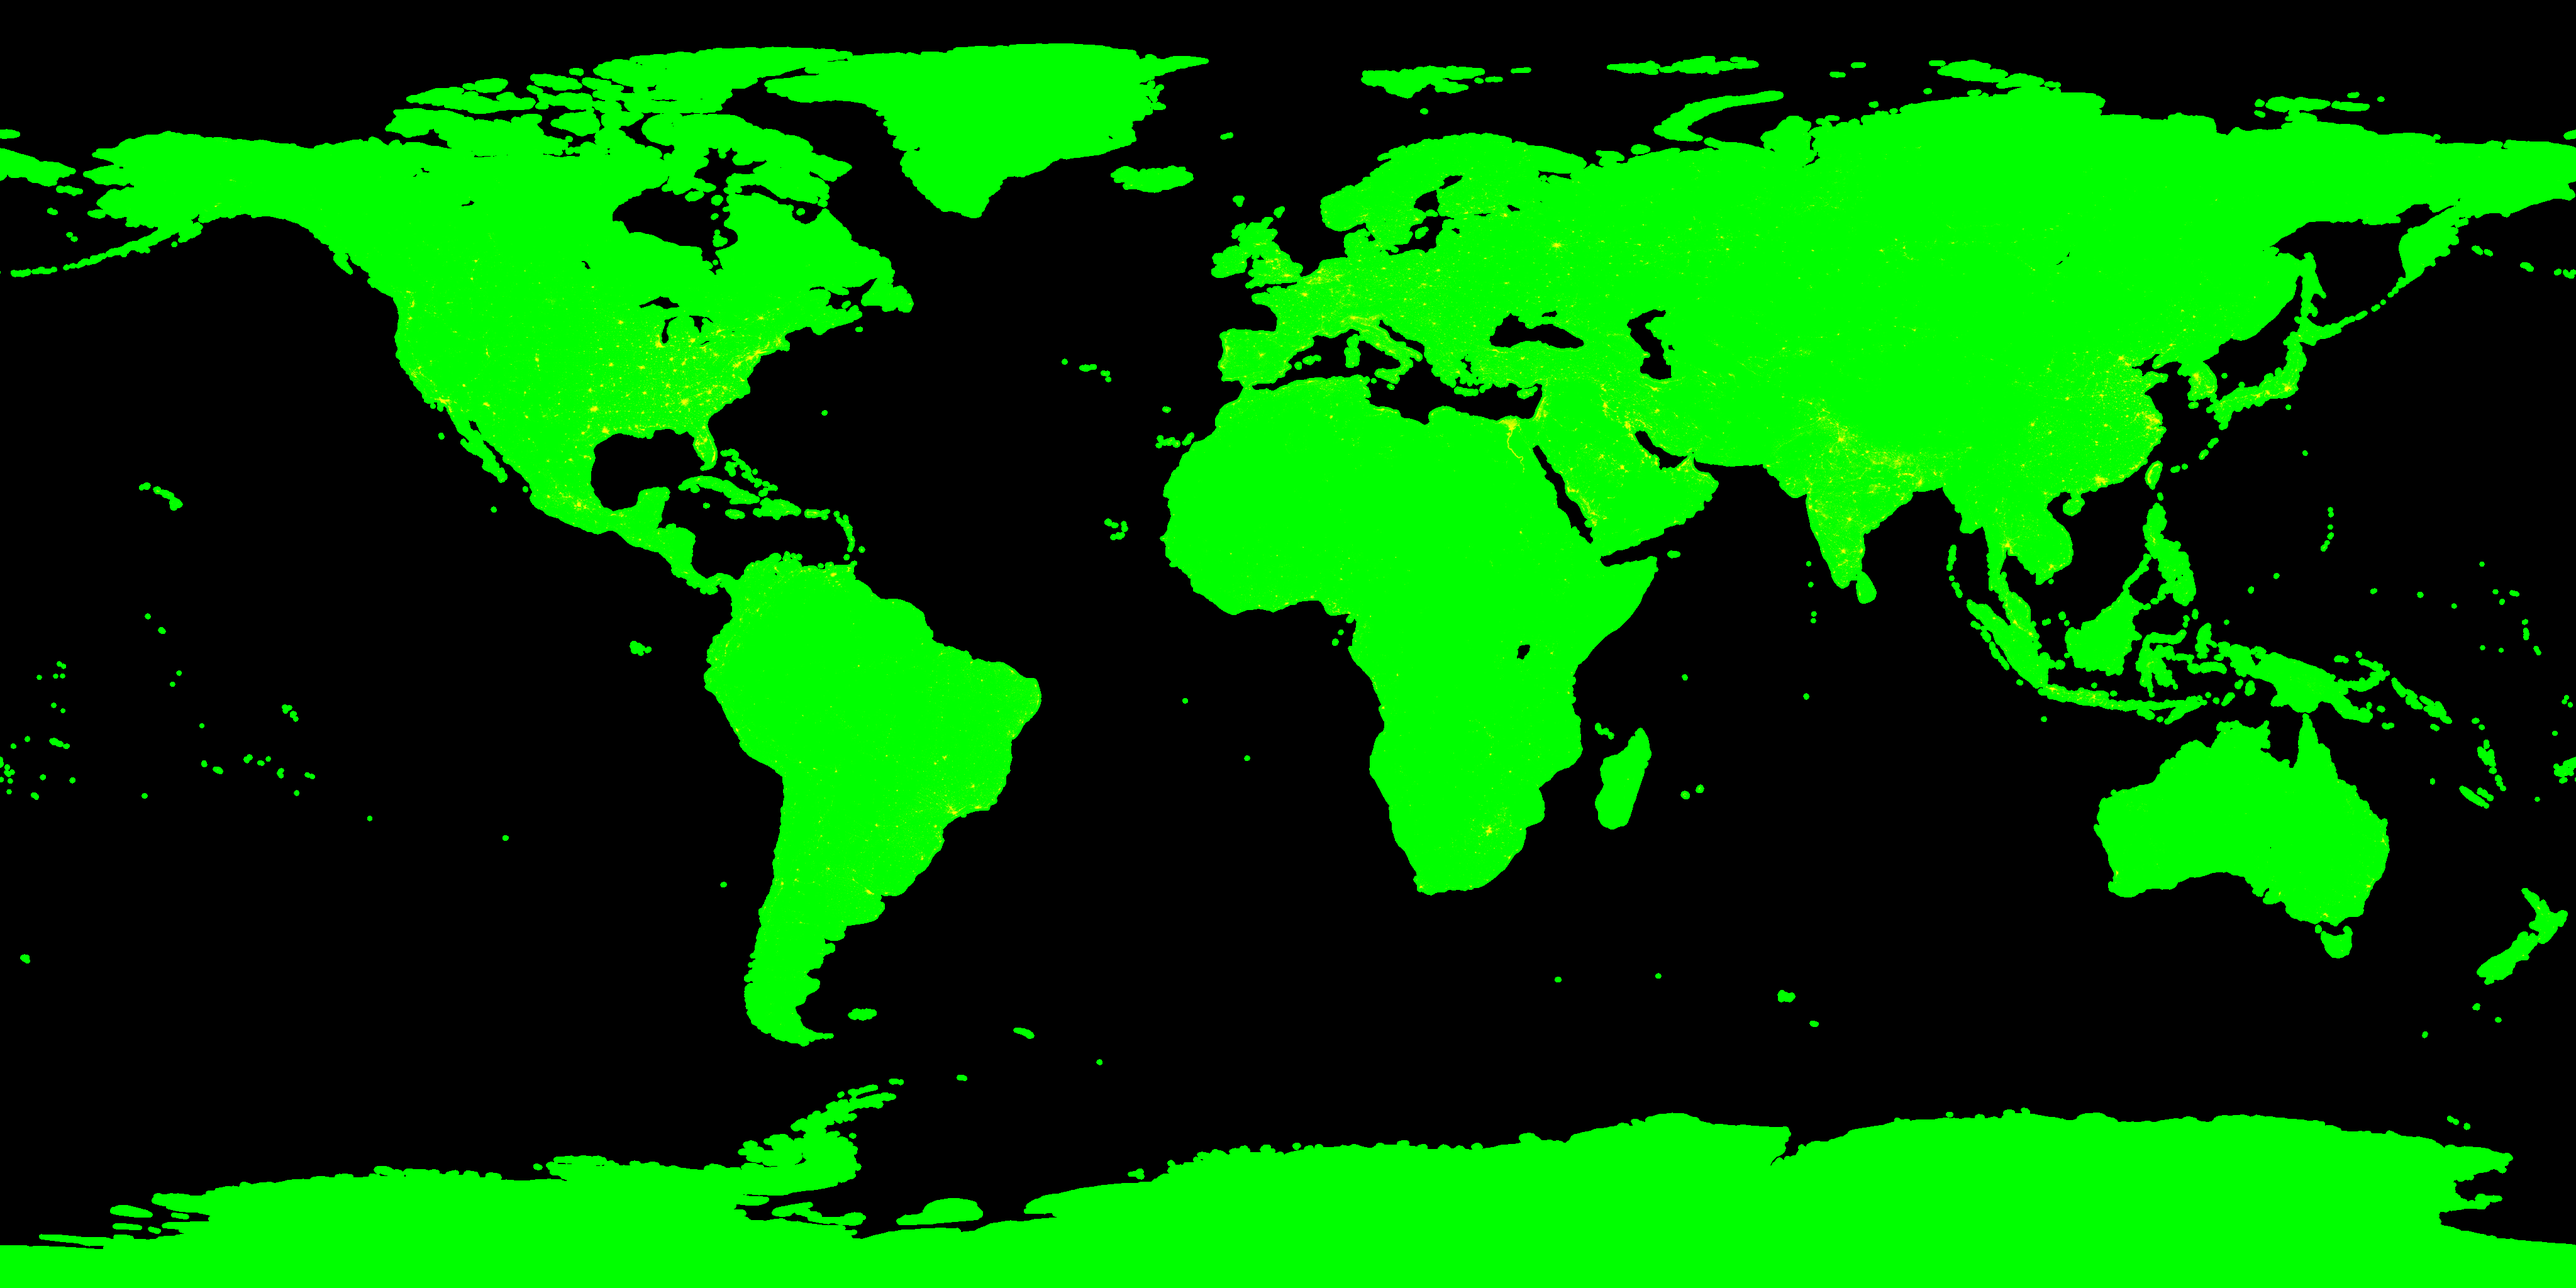
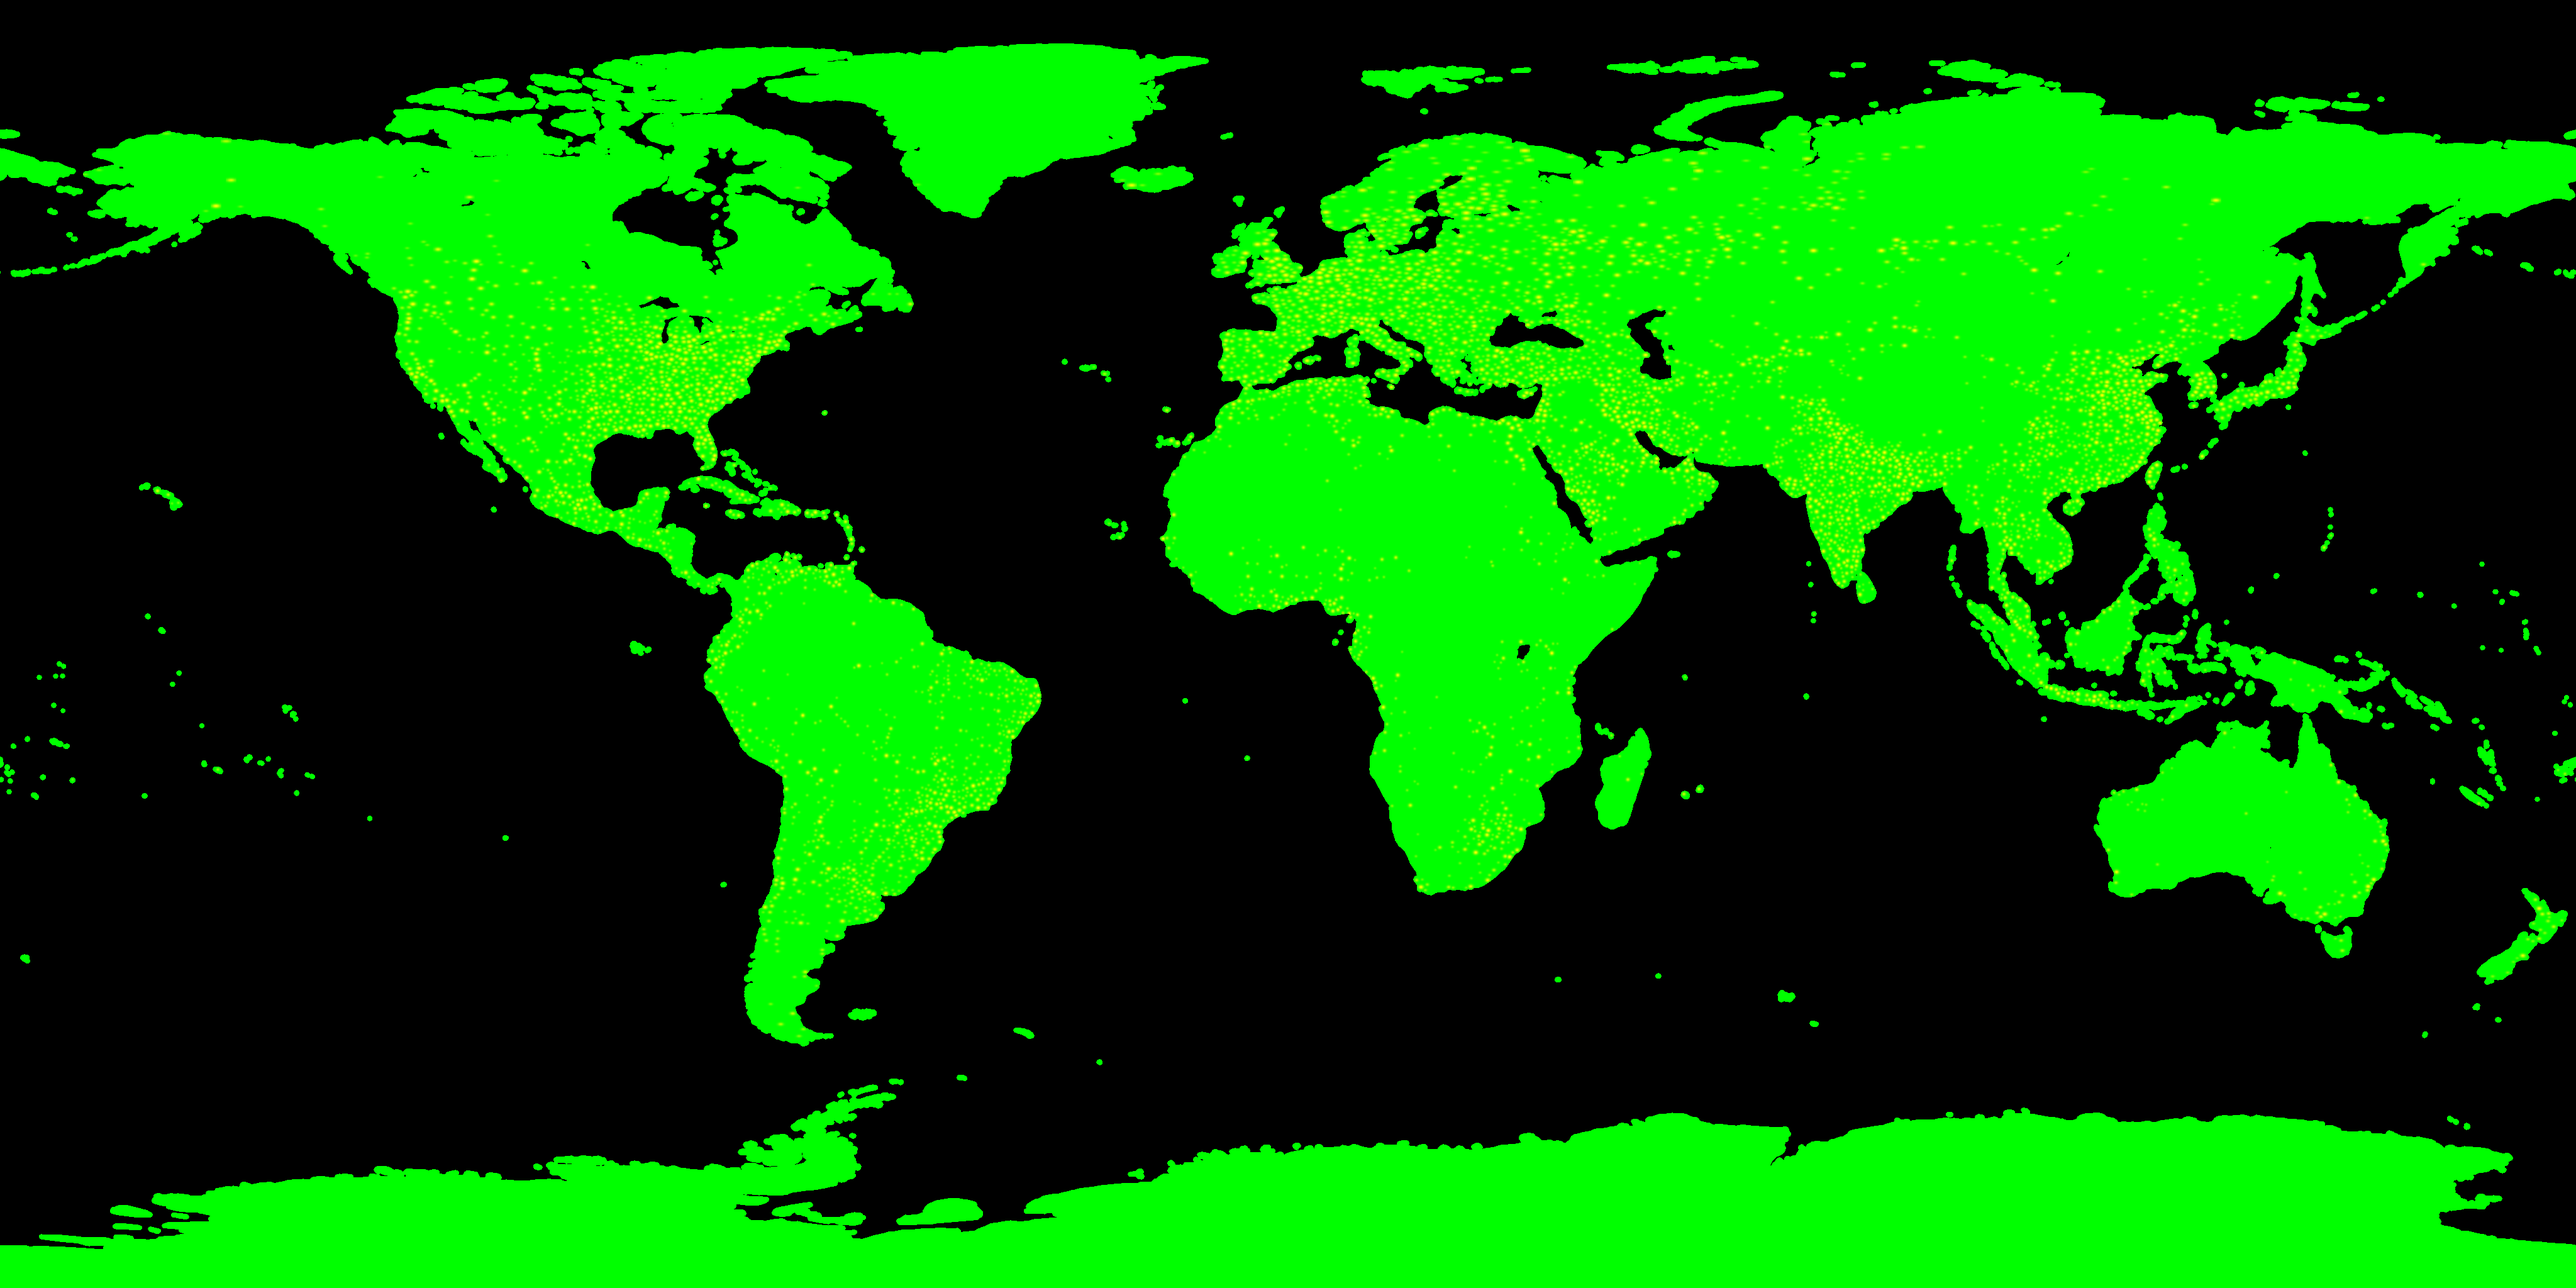
Mold round 3, in progress [skip ci]: food as flakes at the lights' peaks, fewer agents, a calmer body, taps' rings, settling north up, a darker night (painting-company row 203)
Claude-Session: https://claude.ai/code/session_01BAtsk9PFRL729s46UnNz9a

diff --git a/toys/mold/src/lib.rs b/toys/mold/src/lib.rs
@@ -18,16 +18,17 @@ const W: u32 = 4096;
 const H: u32 = 2048;
 const GLOW: u32 = 4;
 /// The agents: enough for a fine network over every continent.
-const AGENTS: u32 = 1 << 17;
+const AGENTS: u32 = 1 << 16;
 /// The lit places an agent may bud again at (drawn by brightness).
 const SPAWNS: usize = 1 << 16;
 const MAX_FEEDS: usize = 32;
+const MAX_RIPPLES: usize = 8;
 /// A flake's box's half height in cells (sim.wgsl's REACH).
 const FEED_REACH: u32 = 96;
 /// Steps a second (the mold's speed: a step is about a cell).
 const RATE: f64 = 60.0;
 /// How much of the body's light a cell keeps a step (its easing in time).
-const BODY_EASE: f32 = 0.93;
+const BODY_EASE: f32 = 0.97;
 
 #[repr(C)]
 #[derive(Clone, Copy, bytemuck::Pod, bytemuck::Zeroable)]
@@ -46,6 +47,8 @@ struct Params {
 struct Look {
     a: [f32; 4],
     ages: [[f32; 4]; MAX_FEEDS],
+    /// lon, lat (radians), seconds since, 1 on land (0 the sea)
+    ripples: [[f32; 4]; MAX_RIPPLES],
 }
 
 #[derive(Clone, Copy, serde::Serialize, serde::Deserialize)]
@@ -53,6 +56,14 @@ struct Feed {
     lon: f64,
     lat: f64,
     at: f64,
+}
+
+#[derive(Clone, Copy)]
+struct Ripple {
+    lon: f64,
+    lat: f64,
+    at: f64,
+    land: bool,
 }
 
 struct Touch {
@@ -65,6 +76,7 @@ struct Touch {
 
 pub struct Mold {
     globe: Globe,
+    night: Night,
     params: wgpu::Buffer,
     look: wgpu::Buffer,
     agents_pipe: wgpu::ComputePipeline,
@@ -85,6 +97,12 @@ pub struct Mold {
     age: f64,
     feeds: Vec<Feed>,
     touch: Option<Touch>,
+    /// The taps' rings (on land and sea).
+    ripples: Vec<Ripple>,
+    /// When a finger last touched (the shell's seconds).
+    touched: f64,
+    /// Where the mold may go (ground.png's G), for a tap.
+    land: Vec<bool>,
     reduce_motion: bool,
 }
 
@@ -322,7 +340,9 @@ impl Toy for Mold {
             cache: None,
         });
 
+        let night = Night::new(gpu, &globe);
         Ok(Mold {
+            night,
             globe,
             params,
             look,
@@ -343,6 +363,9 @@ impl Toy for Mold {
             age: 0.0,
             feeds: Vec::new(),
             touch: None,
+            ripples: Vec::new(),
+            touched: f64::NEG_INFINITY,
+            land: ground.iter().map(|&g| g >= 0.0).collect(),
             reduce_motion: ctx.reduce_motion,
         })
     }
@@ -353,6 +376,7 @@ impl Toy for Mold {
 
     fn pointer(&mut self, ctx: &mut Ctx, e: PointerEvent) {
         self.globe.pointer(e);
+        self.touched = self.seconds;
         match e.phase {
             Phase::Down => {
                 // a second finger makes it a pinch, never a feed
@@ -369,7 +393,14 @@ impl Toy for Mold {
                 if let Some(t) = self.touch.take() {
                     if t.id == e.id && !t.moved && e.t - t.t < 0.5 {
                         if let Some(at) = self.globe.unproject(e.x, e.y) {
-                            self.feed(at);
+                            // on land a flake (the mold may reach it); on the sea only the ring
+                            if self.on_land(at) {
+                                self.feed(at);
+                            }
+                            self.ripples.push(Ripple { lon: at.lon, lat: at.lat, at: self.seconds, land: self.on_land(at) });
+                            if self.ripples.len() > MAX_RIPPLES {
+                                self.ripples.remove(0);
+                            }
                             ctx.haptic();
                         }
                     }
@@ -382,6 +413,15 @@ impl Toy for Mold {
     fn update(&mut self, ctx: &mut Ctx, t: f64, dt: f64) {
         self.globe.update(&ctx.gpu, ctx.assets.as_ref(), t, dt);
         self.seconds = t;
+        // left alone a while (a fling spent), the globe settles north up over the mold's latitudes,
+        // never resting on the ice or the empty southern ocean
+        if self.globe.hand.fingers() == 0 && t - self.touched > 2.5 {
+            let k = 1.0 - 0.5f64.powf(dt / 1.2);
+            let cam = &mut self.globe.camera;
+            let lat = cam.lat.clamp(8.0, 52.0);
+            cam.lat += (lat - cam.lat) * k;
+            cam.roll -= cam.roll * k;
+        }
         // the mold wakes slowly: the mist condenses over its first seconds, then it lives at its pace
         self.age += dt;
         let k = (self.age / 7.0).clamp(0.0, 1.0);
@@ -426,6 +466,7 @@ impl Toy for Mold {
 
     fn draw(&mut self, ctx: &mut Ctx, target: &wgpu::TextureView) {
         self.globe.upload(&ctx.gpu);
+        self.night.follow(&ctx.gpu, &self.globe);
         ctx.gpu.queue.write_buffer(&self.look, 0, bytemuck::bytes_of(&self.look()));
         let mut enc = ctx.gpu.device.create_command_encoder(&Default::default());
         {
@@ -441,7 +482,7 @@ impl Toy for Mold {
                 timestamp_writes: None,
                 occlusion_query_set: None,
             });
-            self.globe.draw(&mut rp);
+            self.night.draw(&mut rp, &self.globe);
             rp.set_pipeline(&self.draw_pipe);
             rp.set_bind_group(0, self.globe.view_bind(), &[]);
             rp.set_bind_group(1, &self.draw_binds[self.parity], &[]);
@@ -486,7 +527,17 @@ impl Mold {
         for (i, f) in self.feeds.iter().rev().take(MAX_FEEDS).enumerate() {
             ages[i][0] = (self.seconds - f.at) as f32;
         }
-        Look { a: [1.0, 0.13, self.streak_share(), H as f32], ages }
+        let mut ripples = [[0.0f32, 0.0, 99.0, 0.0]; MAX_RIPPLES];
+        for (i, r) in self.ripples.iter().enumerate() {
+            ripples[i] = [r.lon.to_radians() as f32, r.lat.to_radians() as f32, (self.seconds - r.at) as f32, if r.land { 1.0 } else { 0.0 }];
+        }
+        Look { a: [1.0, 0.1, self.streak_share(), H as f32], ages, ripples }
+    }
+
+    fn on_land(&self, at: LonLat) -> bool {
+        let x = (((at.lon / 360.0 + 0.5) * W as f64).floor() as i64).rem_euclid(W as i64) as usize;
+        let y = (((0.5 - at.lat / 180.0) * H as f64).floor() as i64).clamp(0, H as i64 - 1) as usize;
+        self.land[y * W as usize + x]
     }
 
     fn feed(&mut self, at: LonLat) {
@@ -494,6 +545,65 @@ impl Mold {
         if self.feeds.len() > MAX_FEEDS {
             self.feeds.remove(0);
         }
+    }
+}
+
+/// Mold's own night ground (night.wgsl): the kit's ground pass with a darker night, its textures the
+/// globe's own.
+struct Night {
+    pipeline: wgpu::RenderPipeline,
+    layout: wgpu::BindGroupLayout,
+    bind: wgpu::BindGroup,
+    months: (u32, u32),
+}
+
+impl Night {
+    fn new(gpu: &toy_kit::Gpu, globe: &Globe) -> Night {
+        use toy_kit::globe::ground::{sampler, tex2d, tex_array};
+        let layout = gpu.device.create_bind_group_layout(&wgpu::BindGroupLayoutDescriptor {
+            label: Some("mold night"),
+            entries: &[tex2d(0), tex2d(1), tex2d(2), tex_array(3), tex2d(4), tex2d(5), sampler(6), tex2d(7)],
+        });
+        let shader = gpu.shader("mold night", &toy_kit::globe::wgsl(include_str!("night.wgsl")));
+        let pipeline = gpu.fullscreen_pipeline("mold night", &shader, &[&globe.view_layout, &layout], None);
+        let bind = Self::bind(gpu, &layout, globe);
+        Night { pipeline, layout, bind, months: globe.textures.land_months }
+    }
+
+    fn bind(gpu: &toy_kit::Gpu, layout: &wgpu::BindGroupLayout, globe: &Globe) -> wgpu::BindGroup {
+        fn tv(t: &toy_kit::gpu::Texture) -> wgpu::BindingResource<'_> {
+            wgpu::BindingResource::TextureView(&t.view)
+        }
+        let tx = &globe.textures;
+        gpu.device.create_bind_group(&wgpu::BindGroupDescriptor {
+            label: Some("mold night"),
+            layout,
+            entries: &[
+                wgpu::BindGroupEntry { binding: 0, resource: tv(&tx.geo) },
+                wgpu::BindGroupEntry { binding: 1, resource: tv(&tx.terrain) },
+                wgpu::BindGroupEntry { binding: 2, resource: tv(&tx.floor) },
+                wgpu::BindGroupEntry { binding: 3, resource: tv(&tx.ice) },
+                wgpu::BindGroupEntry { binding: 4, resource: tv(&tx.land_a) },
+                wgpu::BindGroupEntry { binding: 5, resource: tv(&tx.land_b) },
+                wgpu::BindGroupEntry { binding: 6, resource: wgpu::BindingResource::Sampler(&tx.linear_wrap_x) },
+                wgpu::BindGroupEntry { binding: 7, resource: tv(&tx.lights) },
+            ],
+        })
+    }
+
+    /// Keeps the bind group on the globe's land textures (they change when its months do).
+    fn follow(&mut self, gpu: &toy_kit::Gpu, globe: &Globe) {
+        if self.months != globe.textures.land_months {
+            self.bind = Self::bind(gpu, &self.layout, globe);
+            self.months = globe.textures.land_months;
+        }
+    }
+
+    fn draw<'a>(&'a self, rp: &mut wgpu::RenderPass<'a>, globe: &'a Globe) {
+        rp.set_pipeline(&self.pipeline);
+        rp.set_bind_group(0, globe.view_bind(), &[]);
+        rp.set_bind_group(1, &self.bind, &[]);
+        rp.draw(0..3, 0..1);
     }
 }
 

diff --git a/tools/toys/mold/build.py b/tools/toys/mold/build.py
@@ -6,9 +6,12 @@
 ground.png is an equirectangular 4096 x 2048 sheet (a cell about 10 km at the equator) (west edge at 180 W, north edge at 90 N, as the
 globe's maps), RGB:
 
-  R  the food: the Earth's lights at night (NASA's Black Marble, the same sheet as the globe's
-     Globe/ground/night.jpg), at its own resolution, on land only
-     (lights at sea, fishing fleets and flares, are left out: the mold cannot go there)
+  R  the food: oat flakes laid where the Earth's lights at night are (NASA's Black Marble, the same
+     sheet as the globe's Globe/ground/night.jpg), as Tero et al. laid them at Tokyo's towns: each
+     lit place's brightest point, the brightest first, none within SPACING km of a brighter one
+     (a greedy Poisson-disc on the sphere), a small heap each, larger and richer the brighter the
+     light; on land only (lights at sea, fishing fleets and flares, are left out: the mold cannot
+     go there)
   G  the land the mold may cross: 255 on land and within about 40 km of
      a coast, so narrow straits (Dover, the Bosporus, Messina) are crossed and the open sea is not;
      from the coast's signed distance in Globe/geo.png (tools/globe/build.py, Natural Earth)
@@ -22,6 +25,48 @@ from PIL import Image
 
 ROOT = Path(__file__).resolve().parents[3]
 W, H = 4096, 2048
+SPACING = 55.0          # km between flakes
+FLOOR = 40              # the dimmest light (of 255) that gets a flake
+
+
+def flakes(lights):
+    """The flakes, as a food sheet 0..255: each local peak of the lights (the brightest in its 5 x 5
+    cells, at least FLOOR), the brightest first, kept when no flake already lies within SPACING km."""
+    pad = np.pad(lights, 2, mode='edge')
+    peak = np.ones_like(lights, bool)
+    for dy in range(5):
+        for dx in range(5):
+            if (dy, dx) != (2, 2):
+                peak &= lights >= pad[dy:dy + H, dx:dx + W]
+    ys, xs = np.nonzero(peak & (lights >= FLOOR))
+    order = np.argsort(-lights[ys, xs], kind='stable')
+    km = np.pi * 6371.0 / H                           # a cell's height
+    r = SPACING / km
+    taken = np.zeros((H, W), bool)
+    food = np.zeros((H, W), np.float32)
+    yy, xx = np.mgrid[-8:9, -8:9]
+    kept = 0
+    for i in order:
+        y, x = ys[i], xs[i]
+        if taken[y, x]:
+            continue
+        kept += 1
+        c = max(np.cos((0.5 - (y + 0.5) / H) * np.pi), 0.05)
+        rx = int(np.ceil(r / c))
+        ry = int(np.ceil(r))
+        y0, y1 = max(y - ry, 0), min(y + ry + 1, H)
+        cols = np.arange(x - rx, x + rx + 1) % W
+        dy = (np.arange(y0, y1) - y)[:, None]
+        dx = (np.arange(-rx, rx + 1) * c)[None, :]
+        taken[y0:y1][:, cols] |= dy * dy + dx * dx <= r * r
+        # the heap: brighter lights a richer and broader flake
+        a = (lights[y, x] / 255.0) ** 0.6
+        sig = 0.9 + 1.4 * a
+        g = 255.0 * a * np.exp(-((yy) ** 2 + (xx * c) ** 2) / (2 * sig * sig))
+        gy, gx = np.clip(y + yy, 0, H - 1), (x + xx) % W
+        np.maximum.at(food, (gy, gx), g)
+    print(f'{kept} flakes from {len(order)} peaks')
+    return food
 
 
 def main():
@@ -35,15 +80,16 @@ def main():
     land = land_geo.reshape(H, k, W, k).any(axis=(1, 3))
     night = np.asarray(Image.open(ROOT / 'Globe/ground/night.jpg').convert('L')).astype(np.float32)
     kn = night.shape[1] // W
-    food = night.reshape(H, kn, W, kn).mean(axis=(1, 3))
-    food = np.where(land, food, 0.0)
+    lights = night.reshape(H, kn, W, kn).mean(axis=(1, 3))
+    lights = np.where(land, lights, 0.0)
+    food = np.where(land, flakes(lights), 0.0)
     out = np.zeros((H, W, 3), np.uint8)
     out[..., 0] = np.clip(food + 0.5, 0, 255).astype(np.uint8)
     out[..., 1] = np.where(land, 255, 0).astype(np.uint8)
     dst = ROOT / 'toys/mold/data/ground.png'
     dst.parent.mkdir(parents=True, exist_ok=True)
     Image.fromarray(out, 'RGB').save(dst, optimize=True)
-    print(f'{dst}: land {land.mean():.3f} of cells, lit (>8) {(food > 8).mean():.4f}, {dst.stat().st_size / 1e6:.1f} MB')
+    print(f'{dst}: land {land.mean():.3f} of cells, fed (>8) {(food > 8).mean():.4f}, {dst.stat().st_size / 1e6:.1f} MB')
 
 
 if __name__ == '__main__':
